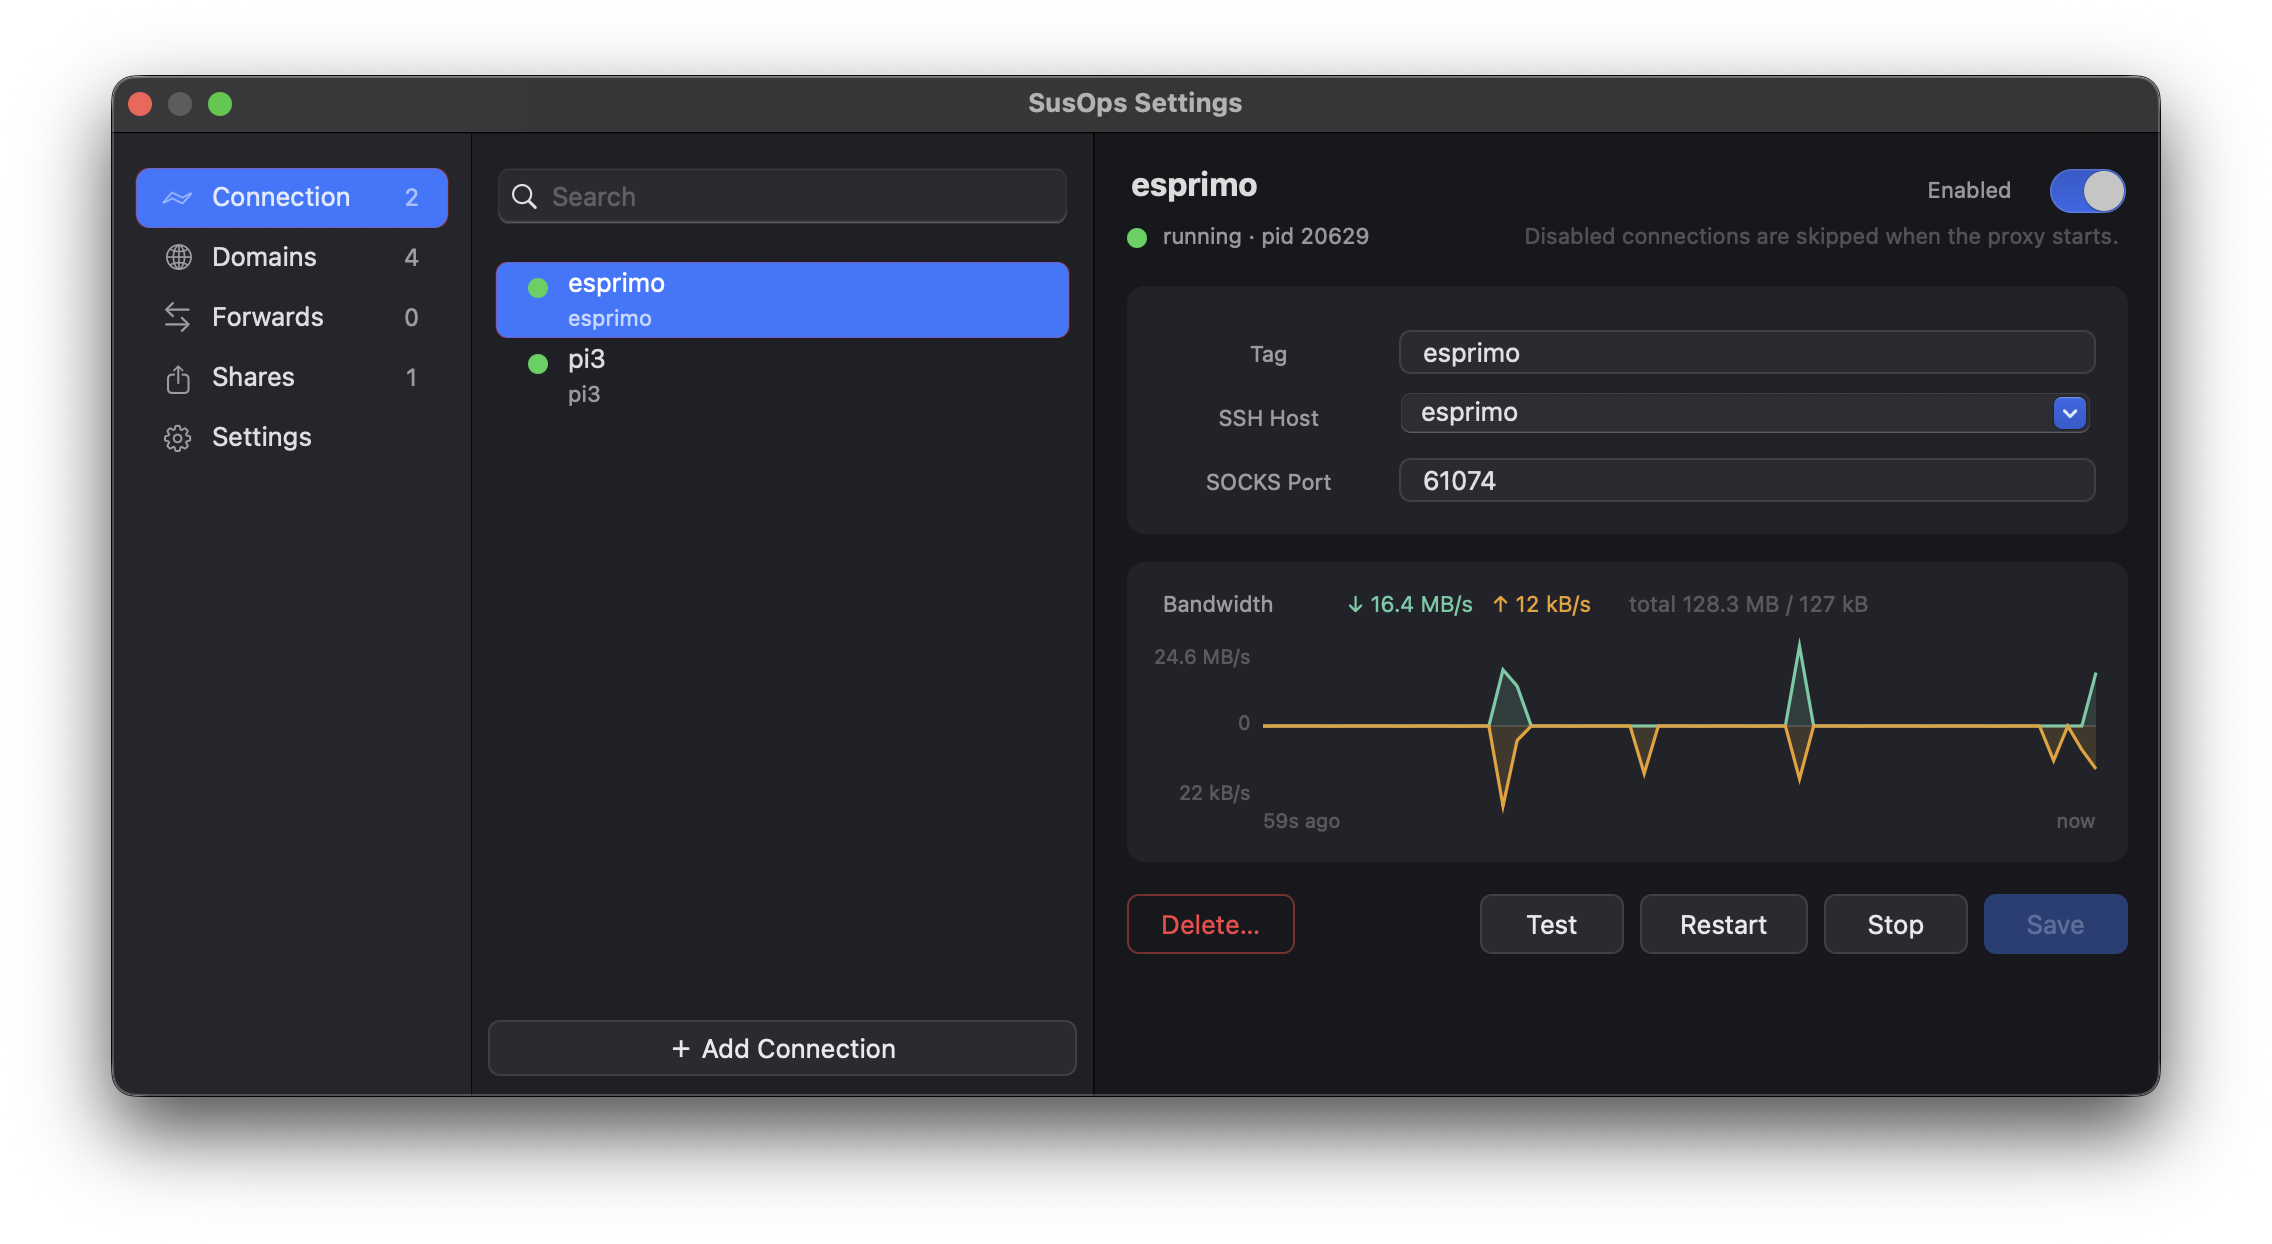
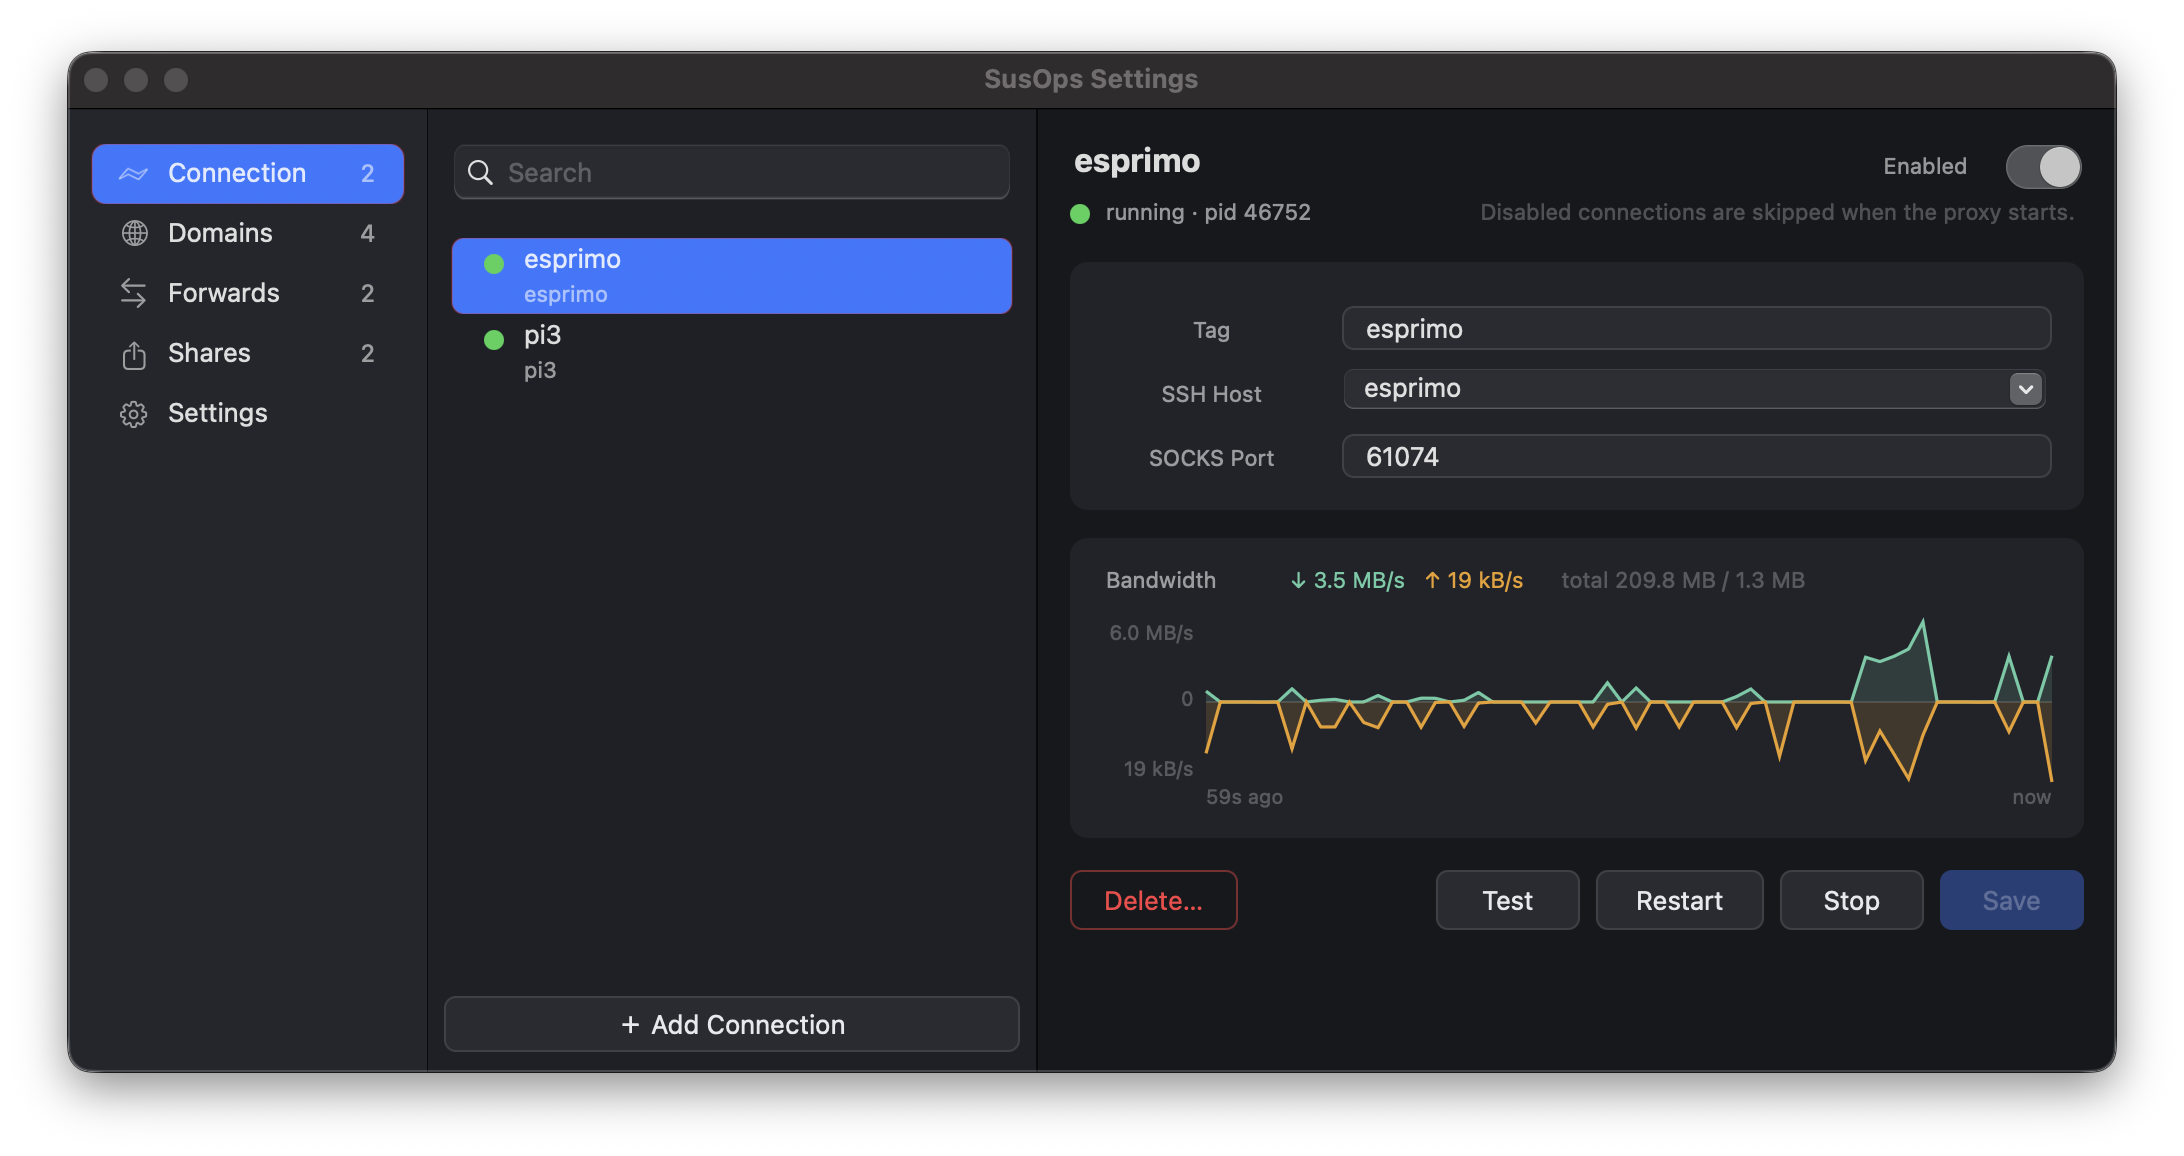
docs: add screenshots for all screens in MacOS tray

diff --git a/README.md b/README.md
@@ -198,6 +198,18 @@ The tray icon reflects the current state (running / partial-or-pending / stopped
 </p>
 
 <p align="center">
+    <img src="docs/tray/macos/tray-domains.png" alt="Menu" height="500" />
+</p>
+
+<p align="center">
+    <img src="docs/tray/macos/tray-forwards.png" alt="Menu" height="500" />
+</p>
+
+<p align="center">
+    <img src="docs/tray/macos/tray-shares.png" alt="Menu" height="500" />
+</p>
+
+<p align="center">
     <img src="docs/tray/macos/tray-settings.png" alt="Menu" height="500" />
 </p>
 